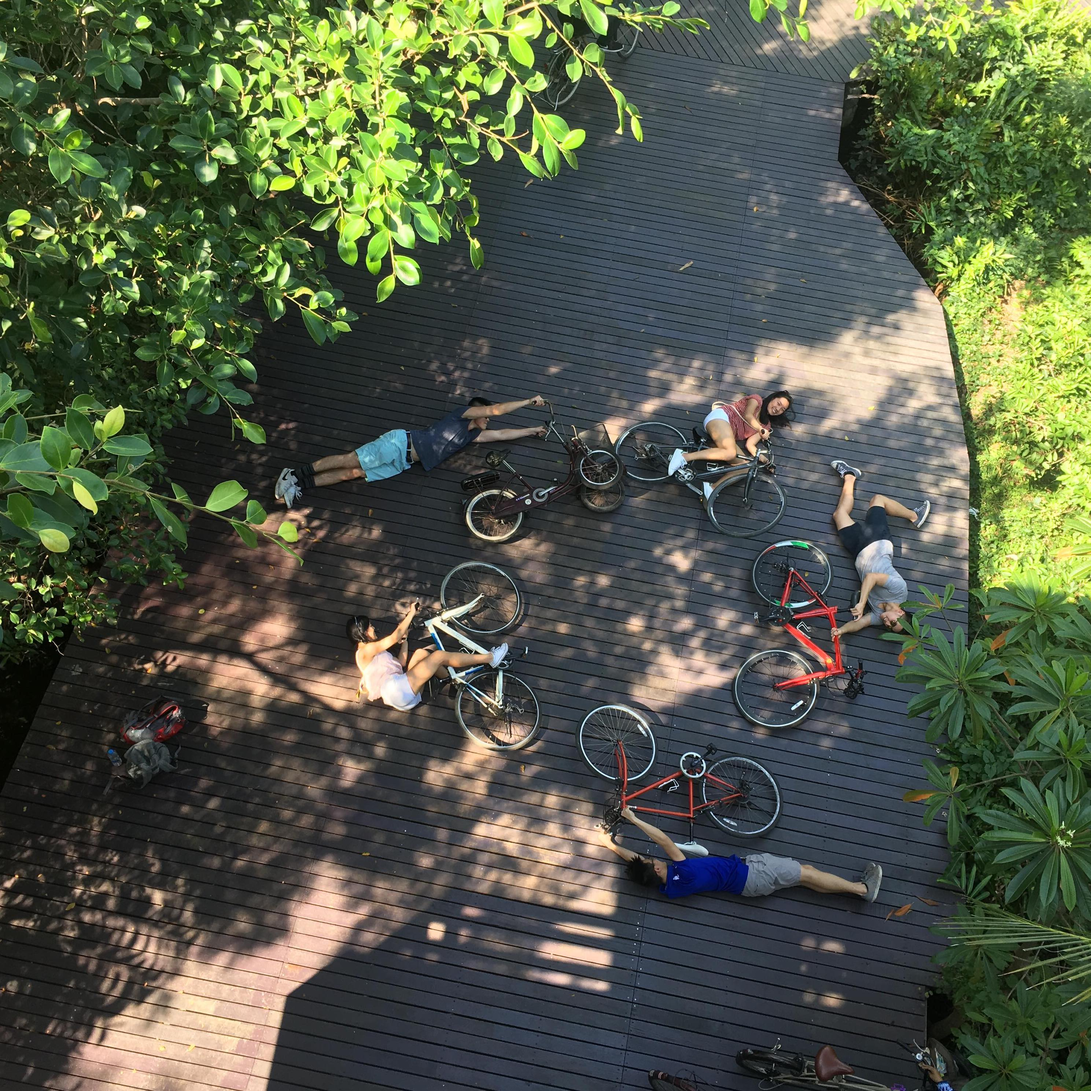
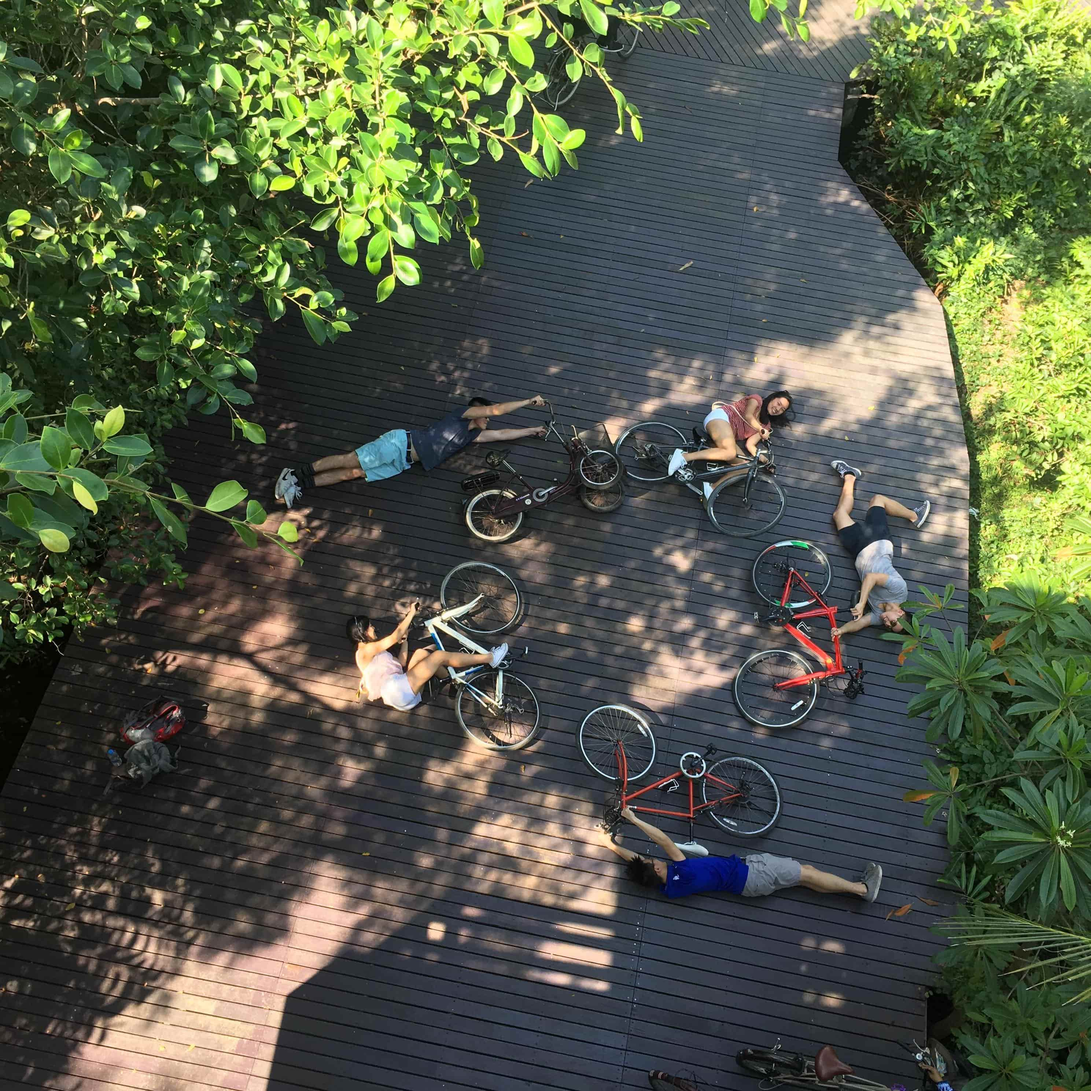
shrink image sizes

diff --git a/index.html b/index.html
@@ -215,7 +215,7 @@
                 <h3>Face Morphing</h3>
                 <span>Computational Photography</span>
               </div>
-              <img class="img-fluid" src="assets/img/ivan_nick.gif">
+              <img class="img-fluid" src="assets/img/ivan_nick_midway.jpg">
             </a>
           </div>
 
